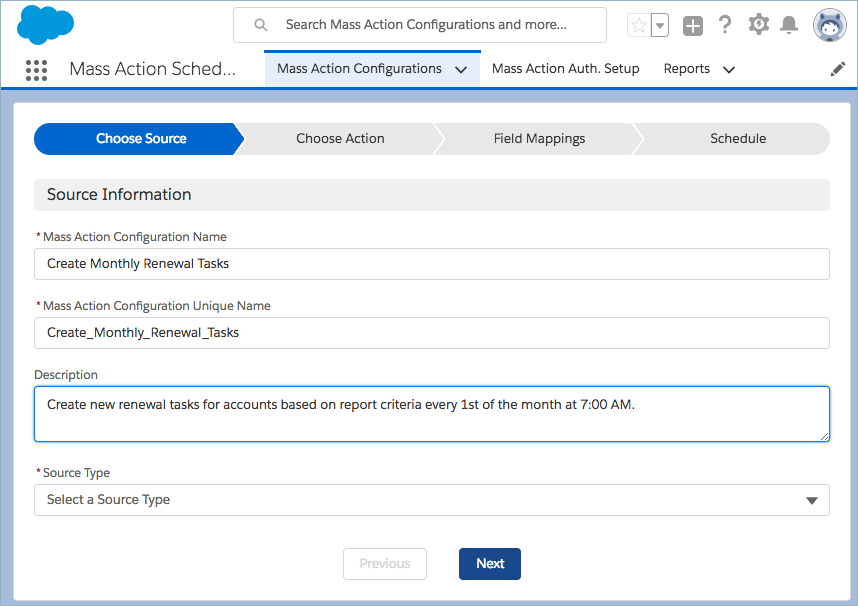
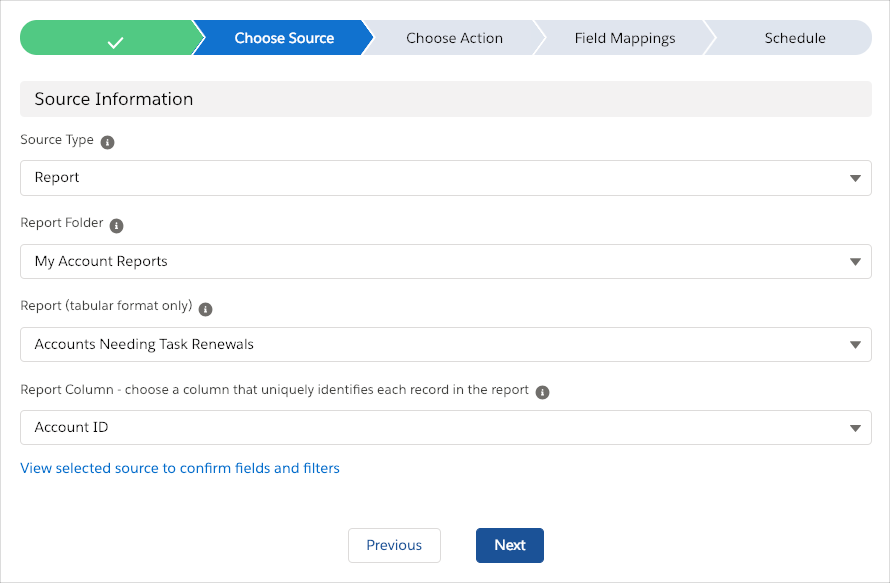
added screen shots; minor updates to readme

diff --git a/README.md b/README.md
@@ -1,12 +1,12 @@
 Mass Action Scheduler
 =======================
 
-![screen shot](images/wizard-choose-source.png)
+![screen shot](images/wizard-details.png)
 
 Overview
 --------
 
-Declaratively schedule Process Builder, Flows, Quick Actions, Email Alerts, Workflow Rules, and Apex to process records from Reports and List Views.
+Declaratively schedule Process Builder, Flows, Quick Actions, Email Alerts, Workflow Rules, and Apex to process records from Reports, List Views, and SOQL queries.
 
 * **Declarative** - no code necessary, never write batch apex again for queries that can be expressed in a report or list view and actions that can be expressed in a declarative alternative
 * **On Platform** - everything happens in Salesforce so no exporting or uploading data
@@ -39,6 +39,7 @@ Identify the records you want to process with list views or tabular reports.
 |-------------------|-------------|
 | **List Views**    | Simple filters. For up to [50 million records](https://help.salesforce.com/articleView?id=000176644&type=1). |
 | **Reports**       | Complex filters like [Cross Filters](https://help.salesforce.com/articleView?id=reports_cross_filters_create.htm&type=5). For up to [~10 thousand records](https://github.com/douglascayers/sfdc-add-campaign-members-by-report/issues/17#issuecomment-332382142). |
+| **SOQL**          | You know exactly what you want to query and don't want to create a list view or report. For up to [50 million records](https://help.salesforce.com/articleView?id=000176644&type=1). |    
 
 
 Actions
@@ -93,6 +94,7 @@ There are a few items you need to setup before installing and using this app.
 3. You will need to disable [Freeze JavaScript Prototypes](https://developer.salesforce.com/docs/atlas.en-us.lightning.meta/lightning/security_freeze_prototypes.htm) because we [share JavaScript code](https://developer.salesforce.com/docs/atlas.en-us.lightning.meta/lightning/security_share_code.htm) using static resources.
     * From Setup, enter `session` in the Quick Find box, then click **Session Settings**.
     * Uncheck **Freeze JavaScript Prototypes** and click **Save**.
+    * For a technical explanation on why this is needed, read my [blog post](https://douglascayers.com/2018/12/30/sharing-javascript-code-in-lightning-aura-components-and-freezing-javascript-prototypes/).
 
 Please see the [instructions in the wiki](https://github.com/douglascayers/sfdx-mass-action-scheduler/wiki/Pre-Requisites-Instructions) for screen shots and step-by-steps.
 
